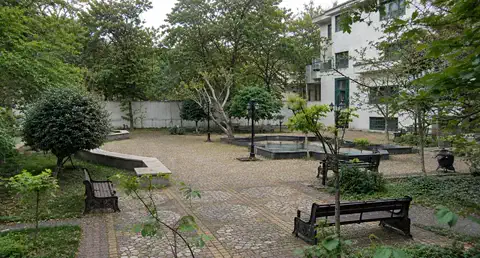
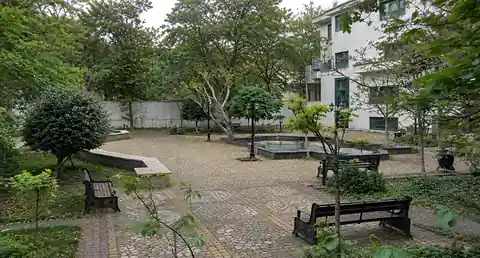
perf: load welcome gallery earlier

diff --git a/index.html b/index.html
@@ -177,11 +177,11 @@
             <figcaption>فضای آمادهسازی و نگهداری تجهیزات</figcaption>
           </figure>
           <figure class="lab-photo-card">
-            <img src="./asset/gallery/lab-workbench-800.webp" srcset="./asset/gallery/lab-workbench-320.webp 320w, ./asset/gallery/lab-workbench-480.webp 480w, ./asset/gallery/lab-workbench-800.webp 800w" sizes="(max-width: 480px) 240px, (max-width: 768px) 300px, 600px" alt="فعالیت کاربر در کنار میز و تجهیزات آزمایشگاهی" loading="lazy" decoding="async" width="800" height="600">
+            <img src="./asset/gallery/lab-workbench-800.webp" srcset="./asset/gallery/lab-workbench-320.webp 320w, ./asset/gallery/lab-workbench-480.webp 480w, ./asset/gallery/lab-workbench-800.webp 800w" sizes="(max-width: 480px) 240px, (max-width: 768px) 300px, 600px" alt="فعالیت کاربر در کنار میز و تجهیزات آزمایشگاهی" loading="eager" fetchpriority="low" decoding="async" width="800" height="600">
             <figcaption>کار روزمره در محیط آزمایشگاه</figcaption>
           </figure>
           <figure class="lab-photo-card">
-            <img src="./asset/gallery/lab-courtyard-800.webp" srcset="./asset/gallery/lab-courtyard-320.webp 320w, ./asset/gallery/lab-courtyard-480.webp 480w, ./asset/gallery/lab-courtyard-800.webp 800w" sizes="(max-width: 480px) 240px, (max-width: 768px) 300px, 300px" alt="محوطهٔ سبز پیرامون ساختمان آزمایشگاه" loading="lazy" decoding="async" width="800" height="431">
+            <img src="./asset/gallery/lab-courtyard-800.webp" srcset="./asset/gallery/lab-courtyard-320.webp 320w, ./asset/gallery/lab-courtyard-480.webp 480w, ./asset/gallery/lab-courtyard-800.webp 800w" sizes="(max-width: 480px) 240px, (max-width: 768px) 300px, 300px" alt="محوطهٔ سبز پیرامون آزمایشگاه" loading="eager" fetchpriority="low" decoding="async" width="800" height="431">
             <figcaption>محوطهٔ پیرامون آزمایشگاه</figcaption>
           </figure>
         </div>
